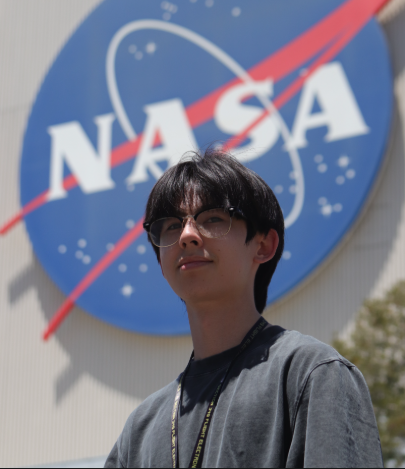
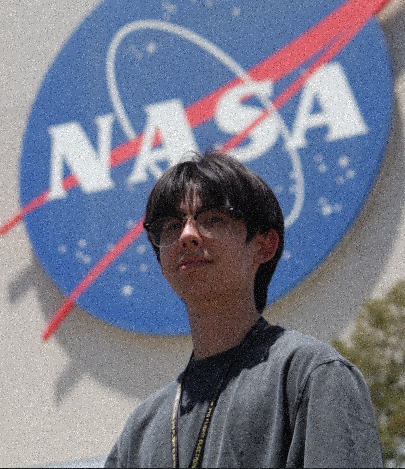
Enhance visual elements and animations in AboutSection and globals.css
- Introduced new animated blob and halo effects in globals.css for improved aesthetics.
- Updated AboutSection styles, including color adjustments and added liquid outline for enhanced visual depth.
- Refined scroll indicators and section colors for better consistency across components.

diff --git a/app/globals.css b/app/globals.css
@@ -385,6 +385,55 @@ img {
   contain: paint;
 }
 
+.blob {
+  position: absolute;
+  inset: 0;
+  border-radius: 9999px;
+  filter: blur(60px);
+  opacity: 0.5;
+  mix-blend-mode: screen;
+  transform: translate3d(0, 0, 0);
+  animation: blob-float 14s ease-in-out infinite alternate;
+}
+
+.blob-emerald {
+  background: radial-gradient(circle, rgba(34, 197, 94, 0.4), transparent 45%);
+  animation-duration: 16s;
+  animation-delay: -4s;
+}
+
+.blob-cyan {
+  background: radial-gradient(
+    circle,
+    rgba(74, 222, 128, 0.32),
+    transparent 45%
+  );
+  animation-duration: 18s;
+  animation-delay: -2s;
+}
+
+.blob-purple {
+  background: radial-gradient(
+    circle,
+    rgba(190, 242, 100, 0.28),
+    transparent 45%
+  );
+  animation-duration: 20s;
+  animation-delay: -6s;
+}
+
+@keyframes blob-float {
+  0% {
+    transform: translate3d(-8%, -6%, 0) scale(0.95);
+  }
+  50% {
+    transform: translate3d(6%, 4%, 0) scale(1.05);
+  }
+  100% {
+    transform: translate3d(-4%, 8%, 0) scale(1);
+  }
+}
+
 .custom-cursor {
   position: fixed;
   top: 0;
@@ -402,6 +451,132 @@ img {
   .custom-cursor {
     display: none;
   }
+}
+
+.halo-ring {
+  position: absolute;
+  width: 92%;
+  height: 92%;
+  border-radius: 9999px;
+  background: conic-gradient(
+    from 0deg,
+    rgba(34, 197, 94, 0.45),
+    rgba(74, 222, 128, 0.4),
+    rgba(190, 242, 100, 0.42),
+    rgba(34, 197, 94, 0.45)
+  );
+  opacity: 0.7;
+  filter: blur(18px);
+  animation: halo-pulse 6s ease-in-out infinite alternate;
+}
+
+@keyframes halo-pulse {
+  0% {
+    transform: scale(0.96) rotate(0deg);
+    opacity: 0.55;
+  }
+  50% {
+    transform: scale(1.02) rotate(8deg);
+    opacity: 0.78;
+  }
+  100% {
+    transform: scale(0.98) rotate(-6deg);
+    opacity: 0.65;
+  }
+}
+
+.halo-ring {
+  position: absolute;
+  inset: -2%;
+  border-radius: inherit;
+  background: conic-gradient(
+    from 45deg,
+    rgba(34, 197, 94, 0.75),
+    rgba(74, 222, 128, 0.68),
+    rgba(190, 242, 100, 0.7),
+    rgba(34, 197, 94, 0.75)
+  );
+  opacity: 0.95;
+  filter: blur(8px);
+  box-shadow: 0 0 25px rgba(34, 197, 94, 0.48),
+    0 0 35px rgba(74, 222, 128, 0.38);
+  animation: halo-pulse 6.5s ease-in-out infinite alternate;
+}
+
+.halo-ring-outline {
+  position: absolute;
+  inset: -1%;
+  border-radius: inherit;
+  border: 3px solid rgba(255, 255, 255, 0.5);
+  box-shadow: 0 0 30px rgba(34, 197, 94, 0.45),
+    0 0 40px rgba(74, 222, 128, 0.35);
+  animation: halo-pulse 7s ease-in-out infinite alternate-reverse;
+}
+
+@keyframes halo-pulse {
+  0% {
+    transform: scale(0.97) rotate(0deg);
+    opacity: 0.6;
+  }
+  50% {
+    transform: scale(1.02) rotate(6deg);
+    opacity: 0.82;
+  }
+  100% {
+    transform: scale(0.99) rotate(-4deg);
+    opacity: 0.7;
+  }
+}
+
+.liquid-outline {
+  position: absolute;
+  inset: -5%;
+  border-radius: inherit;
+  background: transparent;
+  border: 2px solid rgba(34, 197, 94, 0.55);
+  box-shadow: 0 0 20px rgba(34, 197, 94, 0.5), 0 0 30px rgba(16, 185, 129, 0.45),
+    0 0 42px rgba(74, 222, 128, 0.35);
+  mix-blend-mode: screen;
+  opacity: 0.85;
+  animation: liquid-drip 7s ease-in-out infinite;
+  pointer-events: none;
+  z-index: 15;
+}
+
+@keyframes liquid-drip {
+  0% {
+    border-radius: 30% 70% 68% 32% / 32% 28% 72% 68%;
+    transform: translate3d(0, 0, 0) scale(1);
+  }
+  25% {
+    border-radius: 32% 68% 70% 30% / 34% 30% 70% 66%;
+    transform: translate3d(0.6%, -0.6%, 0) scale(1.01);
+  }
+  50% {
+    border-radius: 33% 67% 66% 34% / 36% 28% 68% 64%;
+    transform: translate3d(-0.6%, 0.6%, 0) scale(0.995);
+  }
+  75% {
+    border-radius: 31% 69% 72% 28% / 34% 32% 66% 70%;
+    transform: translate3d(0.3%, 0.3%, 0) scale(1.008);
+  }
+  100% {
+    border-radius: 30% 70% 68% 32% / 32% 28% 72% 68%;
+    transform: translate3d(0, 0, 0) scale(1);
+  }
+}
+
+.headshot-vignette {
+  position: absolute;
+  inset: 0;
+  z-index: 7;
+  pointer-events: none;
+  background: radial-gradient(
+    circle at 50% 50%,
+    transparent 60%,
+    rgba(0, 0, 0, 0.6) 88%
+  );
+  mix-blend-mode: normal;
 }
 
 /* Hide scrollbar but keep functionality */

diff --git a/components/AboutSection.tsx b/components/AboutSection.tsx
@@ -37,7 +37,7 @@ export default function AboutSection() {
             }}
           >
             <h3
-              style={{ color: "#10b981" }}
+              style={{ color: "#22c55e" }}
               className="font-semibold mb-4 text-6xl uppercase tracking-wider"
             >
               This is me.
@@ -55,7 +55,12 @@ export default function AboutSection() {
             </p>
           </motion.div>
           <motion.div
-            style={{ y, opacity }}
+            style={{
+              y,
+              opacity,
+              borderRadius: "30% 70% 70% 30% / 30% 30% 70% 70%",
+            }}
+            className="relative overflow-visible"
             initial={{ opacity: 0, scale: 0.94, rotateZ: -1.5 }}
             whileInView={{ opacity: 1, scale: 1, rotateZ: 0 }}
             viewport={{
@@ -65,6 +70,14 @@ export default function AboutSection() {
             }}
             transition={{ duration: 0.8, ease: [0.25, 0.46, 0.45, 0.94] }}
           >
+            {/* Outer liquid ring hugging the blob shape */}
+            <div
+              className="liquid-outline pointer-events-none"
+              style={{
+                borderRadius: "30% 70% 70% 30% / 30% 30% 70% 70%",
+              }}
+            />
+
             <motion.div
               className="relative aspect-square overflow-hidden select-none isolate"
               style={{
@@ -72,16 +85,11 @@ export default function AboutSection() {
                 outline: "none",
                 border: "none",
                 boxShadow: "none",
+                backgroundColor: "#000",
                 transform: "translate3d(0, 0, 0)",
                 WebkitTransform: "translate3d(0, 0, 0)",
                 backfaceVisibility: "hidden",
                 WebkitBackfaceVisibility: "hidden",
-              }}
-              whileHover={{
-                scale: 1.03,
-                rotateZ: 1.5,
-                y: -6,
-                transition: { duration: 0.35, ease: [0.25, 0.46, 0.45, 0.94] },
               }}
               transition={{ duration: 0.8, ease: [0.25, 0.46, 0.45, 0.94] }}
             >
@@ -92,22 +100,17 @@ export default function AboutSection() {
                 className="object-cover select-none z-0"
                 draggable={false}
                 style={{
-                  transform: "translate3d(0, 0, 0)",
-                  WebkitTransform: "translate3d(0, 0, 0)",
+                  transform: "translate3d(0, 0, 0) scale(1.05)",
+                  WebkitTransform: "translate3d(0, 0, 0) scale(1.05)",
+                  borderRadius: "30% 70% 70% 30% / 30% 30% 70% 70%",
+                  objectPosition: "50% 50%",
+                  maskImage: "none",
+                  WebkitMaskImage: "none",
                 }}
               />
 
-              {/* Soft gradient film overlay (no blend modes to avoid artifacts) */}
-              <div
-                className="absolute inset-0 pointer-events-none z-10"
-                style={{
-                  background:
-                    "radial-gradient(circle at 30% 30%, rgba(16, 185, 129, 0.22), transparent 45%), radial-gradient(circle at 75% 70%, rgba(59, 130, 246, 0.2), transparent 50%), linear-gradient(135deg, rgba(255, 255, 255, 0.08), rgba(0, 0, 0, 0))",
-                  opacity: 1,
-                  filter: "blur(4px)",
-                  mixBlendMode: "normal",
-                }}
-              />
+              {/* Edge vignette to hide source outline */}
+              <div className="headshot-vignette" aria-hidden="true" />
             </motion.div>
           </motion.div>
         </div>

diff --git a/components/ScrollIndicator.tsx b/components/ScrollIndicator.tsx
@@ -5,7 +5,7 @@ import { useEffect, useMemo, useState } from "react";
 
 const SECTION_COLORS = [
   { id: "hero", color: "#E63946", shadow: "rgba(230, 57, 70, 0.8)" },
-  { id: "about", color: "#10b981", shadow: "rgba(16, 185, 129, 0.8)" },
+  { id: "about", color: "#22c55e", shadow: "rgba(34, 197, 94, 0.8)" },
   { id: "experience", color: "#a855f7", shadow: "rgba(168, 85, 247, 0.8)" },
   { id: "tech", color: "#22d3ee", shadow: "rgba(34, 211, 238, 0.8)" },
   { id: "projects", color: "#f59e0b", shadow: "rgba(245, 158, 11, 0.8)" },

diff --git a/components/ScrollProgress.tsx b/components/ScrollProgress.tsx
@@ -5,7 +5,7 @@ import { useEffect, useMemo, useState } from "react";
 
 const SECTION_COLORS = [
   { id: "hero", color: "#E63946", shadow: "rgba(230, 57, 70, 0.6)" },
-  { id: "about", color: "#10b981", shadow: "rgba(16, 185, 129, 0.6)" },
+  { id: "about", color: "#22c55e", shadow: "rgba(34, 197, 94, 0.6)" },
   { id: "experience", color: "#a855f7", shadow: "rgba(168, 85, 247, 0.6)" },
   { id: "tech", color: "#22d3ee", shadow: "rgba(34, 211, 238, 0.6)" },
   { id: "projects", color: "#f59e0b", shadow: "rgba(245, 158, 11, 0.6)" },

diff --git a/components/MobileMenu.tsx b/components/MobileMenu.tsx
@@ -18,7 +18,7 @@ const menuItems = [
 
 const SECTION_COLORS = [
   { id: "hero", color: "#E63946" },
-  { id: "about", color: "#10b981" },
+  { id: "about", color: "#22c55e" },
   { id: "experience", color: "#a855f7" },
   { id: "tech", color: "#22d3ee" },
   { id: "projects", color: "#f59e0b" },
